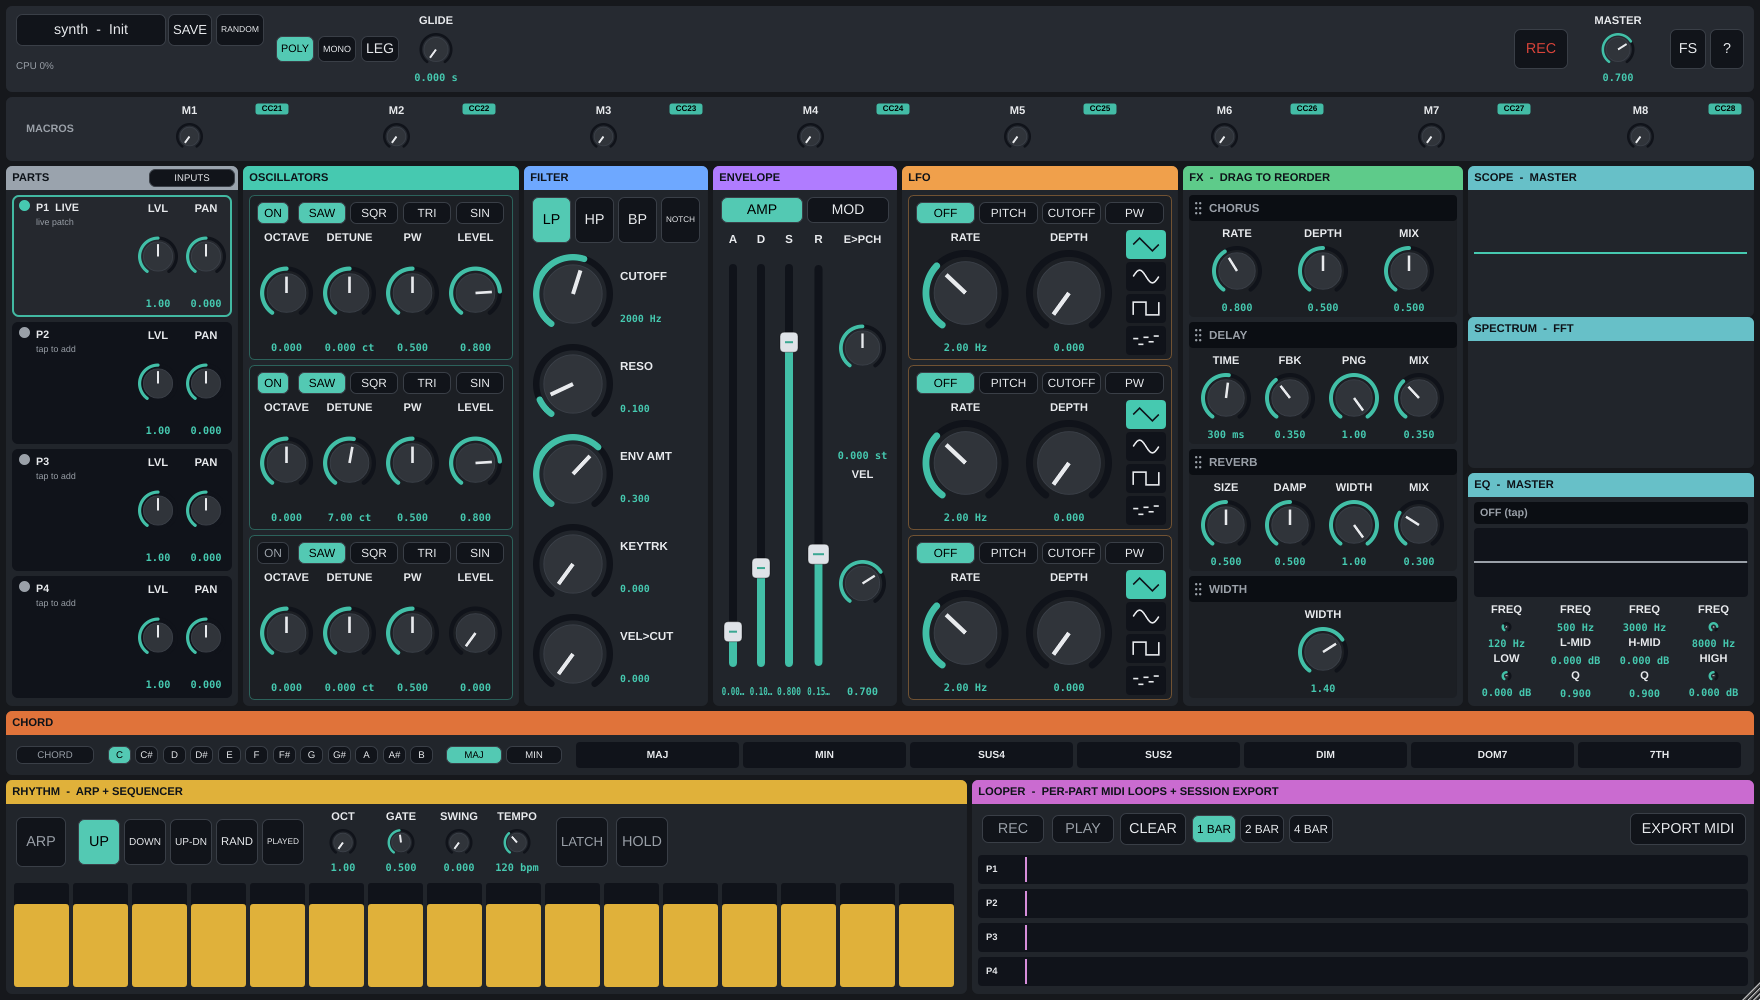
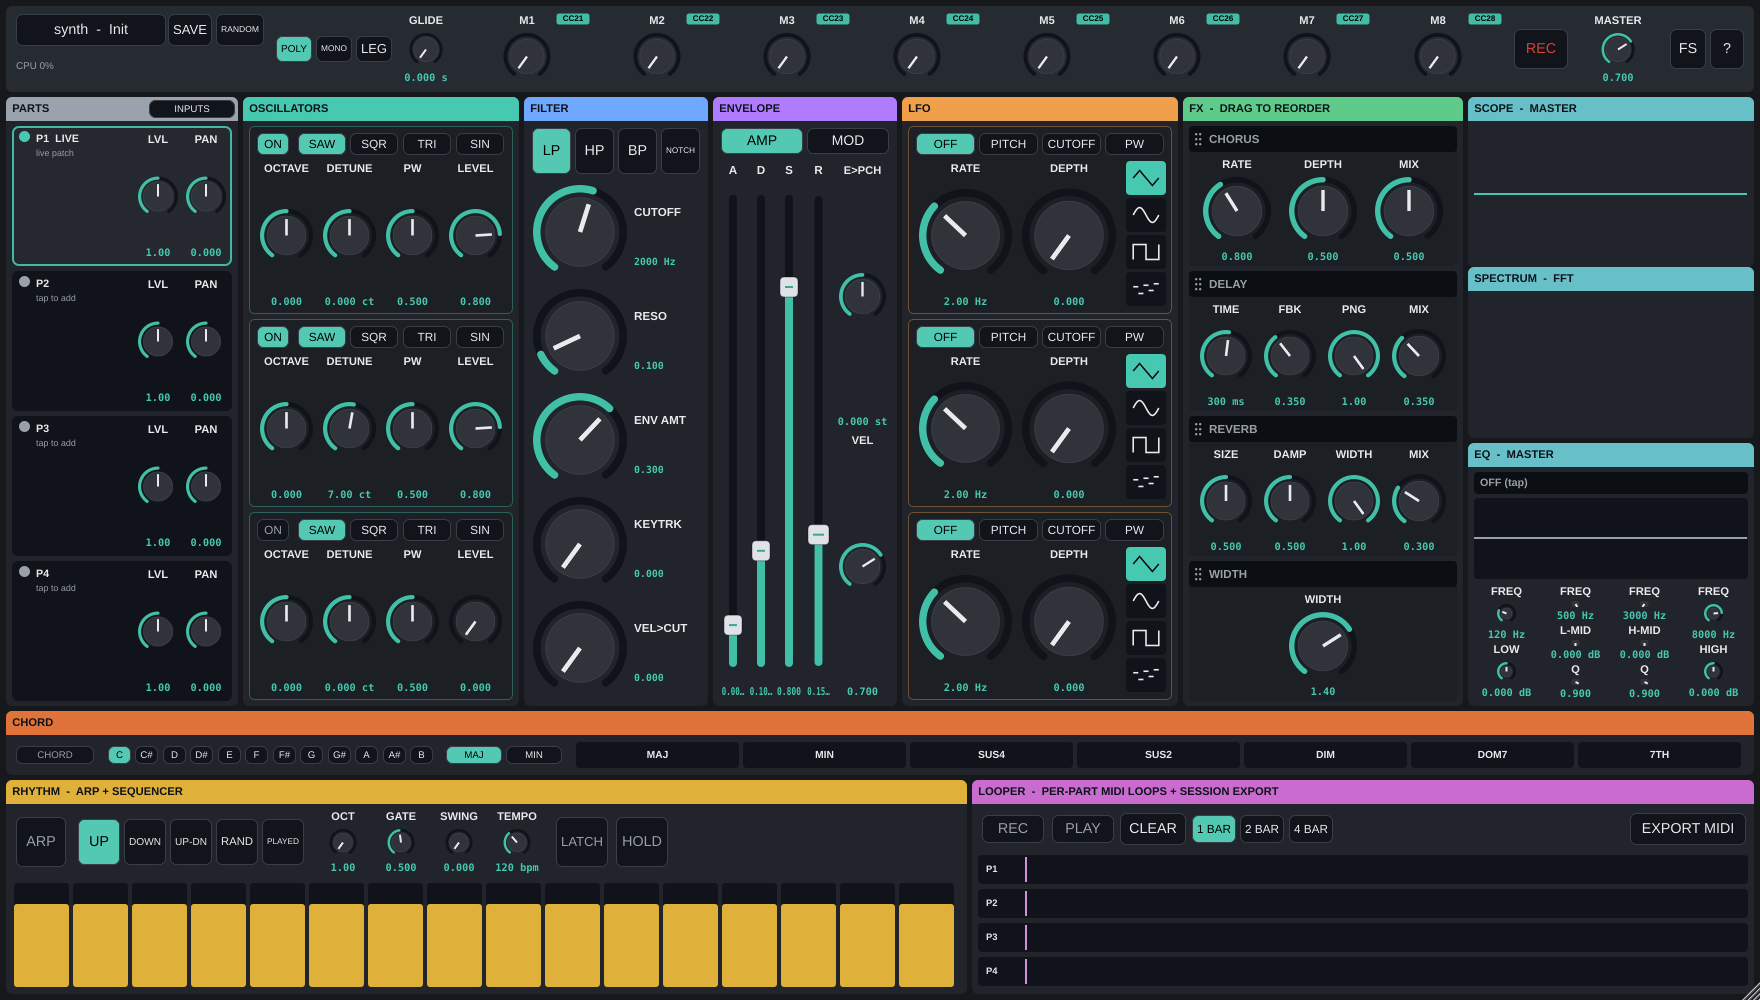
Revert 1.2 macro relocation: macros back in the top bar (user request)
The user prefers the 8 macros compact in the top bar alongside the preset selector
and master; the native title-bar window-gesture issue is instead handled by running
fullscreen/KIOSK mode (FS button / F11 / title-bar maximise), which removes the title
bar entirely so a top-of-window touch can't become a window-move/edge gesture.

- Macros returned to TopBar (M1-M8, no value readout, ~2.7x drag, Launchkey CC21-28
  badges, routing + labels) beside the voice group (poly/mono/legato + glide).
- Removed UI/MacroStrip.h and its editor wiring; centre panel reclaims the strip's
  height (more compact overall).
- README live-mode note updated: kiosk is the recommended live mode + the fix.

Gate: full plugin suite 130 cases + Release run-all-checks 206/206 incl. pluginval s8.

diff --git a/Source/UI/TopBar.h b/Source/UI/TopBar.h
@@ -47,8 +47,8 @@ public:
             juce::Random rng;
             presets.randomize (rng);
             proc.randomizeMacros (rng);        // assign 1-4 macros to random params + values
-            currentName = "Random"; refreshTitle();
-            if (restoreFocus) restoreFocus();  // MacroStrip's timer reflects the new macro map
+            currentName = "Random"; refreshTitle(); refreshMacroLabels();
+            if (restoreFocus) restoreFocus();
         };
         addAndMakeVisible (random);
 
@@ -65,8 +65,21 @@ public:
         help.onClick = [this] { if (toggleHelp) toggleHelp(); };
         addAndMakeVisible (help);
 
-        // The 8 macros live in the MacroStrip below the top bar (defect 1.2: keep touch
-        // targets off the native title-bar drag region).
+        // The 8 macros live in the top bar (compact, with the preset + master). The
+        // native title-bar gesture issue is handled by running fullscreen/kiosk (no title
+        // bar) — see toggleFullscreen / the README live-mode note.
+        const char* ids[] { ParamID::macro1, ParamID::macro2, ParamID::macro3, ParamID::macro4,
+                            ParamID::macro5, ParamID::macro6, ParamID::macro7, ParamID::macro8 };
+        for (int m = 0; m < 8; ++m)
+        {
+            auto* k = new RotaryKnob (proc.apvts, ids[m], "M" + juce::String (m + 1), proc.getMidiLearn());
+            k->setShowValue (false);                             // no number -> compact
+            k->setDragPixels ((kDragPixelsForFullRange * 10) / 27);   // ~2.7x responsive
+            macros.add (k); addAndMakeVisible (k);
+            const int idx = m;
+            macroAtt.add (new juce::ParameterAttachment (*proc.apvts.getParameter (ids[m]),
+                [this, idx] (float v) { applyMacro (idx, v); }, nullptr));
+        }
 
         master = std::make_unique<RotaryKnob> (proc.apvts, ParamID::masterGain, "MASTER", proc.getMidiLearn());
         addAndMakeVisible (*master);
@@ -77,7 +90,8 @@ public:
         glide = std::make_unique<RotaryKnob> (proc.apvts, ParamID::glideTime, "GLIDE", proc.getMidiLearn());
         addAndMakeVisible (*mode); addAndMakeVisible (*glide);
 
-        startTimerHz (4);   // CPU readout
+        refreshMacroLabels();
+        startTimerHz (4);   // CPU readout + macro-label resync
     }
 
     void paint (juce::Graphics& g) override
@@ -108,8 +122,14 @@ public:
         rec.setBounds (tb.removeFromRight (54).reduced (0, 16)); tb.removeFromRight (10);
 
         // Voice group (poly/mono/legato + glide), just right of the preset area.
-        mode->setBounds (tb.removeFromLeft (128).withSizeKeepingCentre (128, 30)); tb.removeFromLeft (6);
-        glide->setBounds (tb.removeFromLeft (56));
+        mode->setBounds (tb.removeFromLeft (120).withSizeKeepingCentre (120, 30)); tb.removeFromLeft (6);
+        glide->setBounds (tb.removeFromLeft (52)); tb.removeFromLeft (10);
+
+        // 8 macro knobs fill the middle span between the voice group and the right cluster.
+        const int n = macros.size();
+        const int mw = juce::jmax (10, tb.getWidth() / n);
+        for (int m = 0; m < n; ++m)
+            macros[m]->setBounds ((m < n - 1 ? tb.removeFromLeft (mw) : tb).reduced (2, 0));
     }
 
     // Update the shown patch name from outside (e.g. a factory load elsewhere).
@@ -121,6 +141,24 @@ private:
         const int cpu = (int) juce::roundToInt (proc.health.snapshot().cpuPercent);
         auto line = "CPU " + juce::String (juce::jlimit (0, 999, cpu)) + "%";
         if (line != statusLine) { statusLine = line; repaint (statusArea); }
+        refreshMacroLabels();     // map can change on Random / preset load
+    }
+
+    void applyMacro (int idx, float value)
+    {
+        const auto id = proc.getMacroTargetId (idx);
+        if (id.isEmpty()) return;
+        if (auto* target = proc.apvts.getParameter (id))
+            if (! juce::approximatelyEqual (target->getValue(), value))
+                target->setValueNotifyingHost (value);
+    }
+    void refreshMacroLabels()
+    {
+        for (int m = 0; m < macros.size(); ++m)
+        {
+            const auto tgt = proc.getMacroTargetName (m);
+            macros[m]->setDisplayName (tgt.isNotEmpty() ? tgt : ("M" + juce::String (m + 1)));
+        }
     }
 
     void refreshTitle() { presetBtn.setButtonText ("synth  -  " + currentName); }
@@ -185,6 +223,8 @@ private:
     std::function<void()> restoreFocus, toggleHelp, toggleFullscreen;
 
     juce::TextButton presetBtn, save, random, rec, full, help;
+    juce::OwnedArray<RotaryKnob> macros;
+    juce::OwnedArray<juce::ParameterAttachment> macroAtt;
     std::unique_ptr<RotaryKnob> master, glide;
     std::unique_ptr<HSelector> mode;
     juce::Rectangle<int> statusArea;

diff --git a/Source/PluginEditor.h b/Source/PluginEditor.h
@@ -9,7 +9,6 @@
 #include "UI/Sections.h"
 #include "UI/FXPanel.h"
 #include "UI/TopBar.h"
-#include "UI/MacroStrip.h"
 #include "UI/PartRail.h"
 #include "UI/ScopeView.h"
 #include "UI/EQPanel.h"
@@ -124,7 +123,6 @@ public:
         const int gap = 5;
 
         topBar->setBounds (area.removeFromTop (86)); area.removeFromTop (gap);
-        macroStrip->setBounds (area.removeFromTop (64)); area.removeFromTop (gap);
 
         if (bottomZones != nullptr)
         {
@@ -188,9 +186,6 @@ private:
                                            [this] { toggleHelp(); },
                                            [this] { toggleFullscreen(); });
         addAndMakeVisible (*topBar);
-
-        macroStrip = std::make_unique<MacroStrip> (proc);
-        addAndMakeVisible (*macroStrip);
 
         partRail = std::make_unique<PartRail> (proc, [this] { restoreQwertyFocus(); });
         addAndMakeVisible (*partRail);
@@ -335,7 +330,6 @@ private:
 
     // R2 layout components.
     std::unique_ptr<TopBar> topBar;
-    std::unique_ptr<MacroStrip> macroStrip;
     std::unique_ptr<PartRail> partRail;
     std::unique_ptr<OscSection> oscSection;
     std::unique_ptr<FilterSection> filterSection;

diff --git a/README.md b/README.md
@@ -337,11 +337,11 @@ LookAndFeel; layout scales with the window.
   section (arp / sequencer / looper / tempo)** all keep their values (single
   `randomizeExclusions()` list). It also assigns 1–4 macros to random destinations.
 - **Live / touchscreen use — run fullscreen.** The FS button, **F11**, or the window
-  title-bar's maximise button put the app in kiosk mode, which **removes the native
-  title bar** so a touch near the top of the window can never be hijacked as a
-  window-move/edge gesture. The macros were moved OFF the top bar into their own strip
-  below it for the same reason; the remaining top-bar controls are buttons + two knobs
-  (master, glide) set in from the top edge. Fullscreen is the recommended live mode.
+  title-bar's maximise button put the app in **kiosk mode**, which fills the screen and
+  **removes the native title bar** — so a touch near the top of the window (e.g. a
+  macro knob) can never be hijacked by the window manager as a window-move/edge gesture.
+  Fullscreen is the recommended live mode; the macros live in the compact top bar
+  alongside the preset selector and master.
 - **Debug overlay**: F12. **Help**: `?` (Shift+/).
 - QWERTY note input keeps working while twisting controls (controls refuse keyboard
   focus). VST3 uses the same editor, freely resizable.
